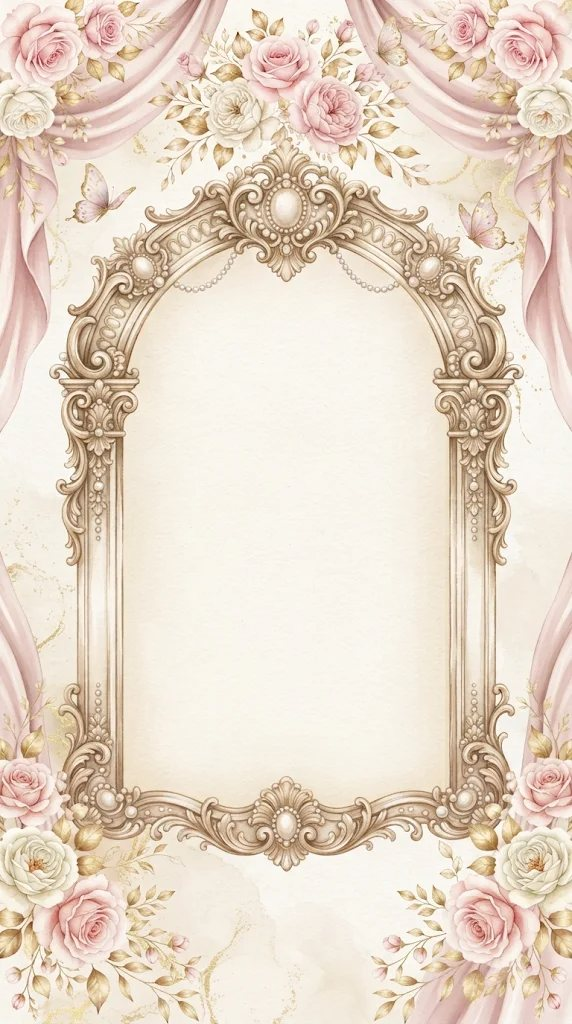
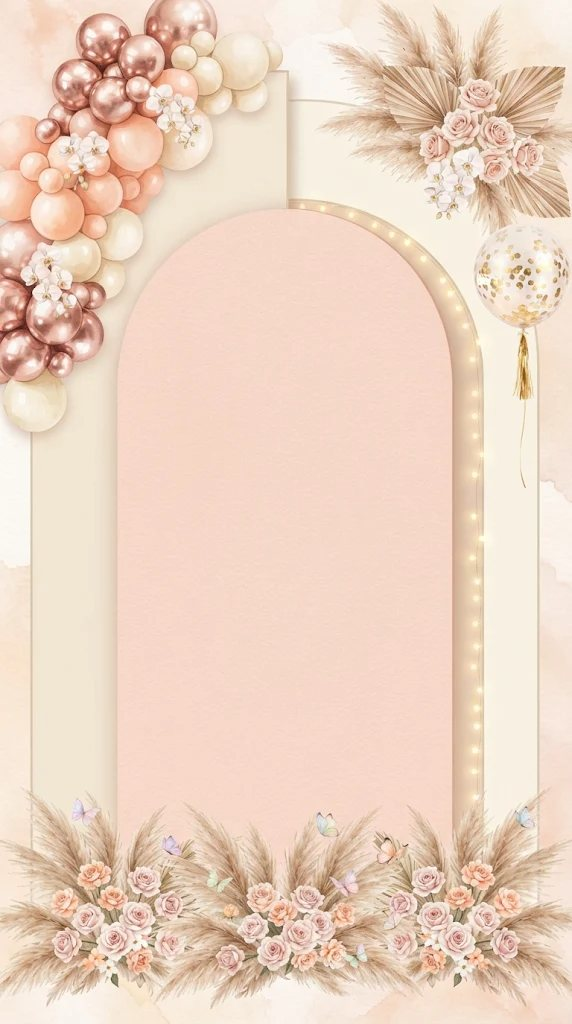
Peach rose-gold art, painted envelope with sliding card, mobile perf

diff --git a/app/royal.css b/app/royal.css
@@ -1004,13 +1004,14 @@ body.locked { scroll-snap-type: none; }
    ART MODE PASS — light blush / rose-gold type that sits INSIDE the painted arch
    ===================================================================== */
 .panel[data-art="1"] {
-  --ink-t: #5b3f45;
-  --ink-dim: rgba(91, 63, 69, 0.86);
-  --rose-t: #c0697f;
-  --gold-ink: #a4752f;
-  --gold-foil-dk: linear-gradient(135deg, #a8704f 0%, #d79a7e 34%, #efc3a8 50%, #c78566 70%, #a8704f 100%);
+  --W: min(100vw, 520px);
+  --ink-t: #5a382e;
+  --ink-dim: rgba(90, 56, 46, 0.86);
+  --rose-t: #9c5242;
+  --gold-ink: #7e4a2a;
+  --gold-foil-dk: linear-gradient(135deg, #8f5640 0%, #c98467 34%, #e6b196 50%, #b3705a 70%, #8f5640 100%);
   /* the arch interior starts ~37% down the painting and is ~58% as wide as the panel */
-  padding: clamp(14rem, 41svh, 26rem) 20% clamp(3.5rem, 9svh, 5.5rem);
+  padding: max(30svh, calc(var(--W) * 0.52)) 22% max(14svh, calc(var(--W) * 0.3));
   align-content: start;
   contain: paint;
 }
@@ -1021,7 +1022,7 @@ body.locked { scroll-snap-type: none; }
   filter: none;
   line-height: 1.1;
   background: none; -webkit-background-clip: border-box; background-clip: border-box;
-  color: #c4825f;
+  color: #a65f48;
   text-shadow: 0 1px 0 rgba(255, 255, 255, 0.85);
 }
 .panel[data-art="1"] .frame .eyebrow { font-size: 0.62rem; letter-spacing: 0.3em; color: var(--rose-t); }
@@ -1030,12 +1031,18 @@ body.locked { scroll-snap-type: none; }
 .panel[data-art="1"] .frame li { text-wrap: balance; }
 
 /* no maroon placeholders / cut-off monogram on painted panels */
-.panel[data-art="1"] .photo--empty,
+.panel#top[data-art="1"] .photo--empty,
 .panel[data-art="1"] .cameo:has(.photo--empty) { display: none; }
+.panel[data-art="1"] .photo__placeholder {
+  background: radial-gradient(circle at 50% 35%, rgba(255, 255, 255, 0.6), rgba(247, 205, 190, 0.6) 70%), #f6d5c6;
+}
+.panel[data-art="1"] .photo__mat { background: linear-gradient(#f6d5c6, #f6d5c6) padding-box, var(--gold-foil) border-box; border-width: 3px; }
+.panel[data-art="1"] .photo__mono { background: var(--gold-foil-dk); -webkit-background-clip: text; background-clip: text; color: transparent; }
+.panel[data-art="1"] .photo__placeholder small { color: var(--rose-t); }
 .panel[data-art="1"] .cameo + .frame { margin-top: 0; }
 
 /* hero */
-.panel#top[data-art="1"] { padding-top: clamp(14rem, 41svh, 26rem); }
+.panel#top[data-art="1"] { padding-top: max(30svh, calc(var(--W) * 0.52)); }
 .panel[data-art="1"] .hero { gap: 0.55rem; }
 .panel[data-art="1"] .hero__arch { width: 100%; }
 .panel[data-art="1"] .hero__arch .photo { aspect-ratio: 3 / 3.4; max-width: 230px; margin: 0 auto 0.4rem; }
@@ -1048,8 +1055,8 @@ body.locked { scroll-snap-type: none; }
 .panel[data-art="1"] .hero__name {
   font-size: clamp(3.6rem, 17vw, 5rem);
   background: none; -webkit-background-clip: border-box; background-clip: border-box;
-  color: #c4825f;
-  text-shadow: 0 1px 0 rgba(255, 255, 255, 0.85), 0 2px 10px rgba(196, 130, 95, 0.25);
+  color: #a65f48;
+  text-shadow: 0 1px 0 rgba(255, 255, 255, 0.6), 0 2px 10px rgba(166, 95, 72, 0.22);
 }
 .panel[data-art="1"] .hero__age { color: var(--gold-ink); font-size: 2rem; }
 .panel[data-art="1"] .hero__at { color: var(--rose-t); }
@@ -1082,7 +1089,7 @@ body.locked { scroll-snap-type: none; }
 
 /* phones: lighter, still pretty */
 @media (max-width: 760px) {
-  .panel[data-art="1"] { padding-inline: 19%; }
+  .panel[data-art="1"] { padding-inline: 21%; }
   .panel[data-art="1"] .panel__bg { scale: 1 !important; transition: none !important; }
   .sparkles, .panel[data-art="1"] .scroll-cue span { display: none; }
   .panel[data-art="1"] .frame { translate: 0 20px; scale: 1; transition: opacity 0.7s ease, translate 0.9s var(--ease); }
@@ -1094,3 +1101,71 @@ body.locked { scroll-snap-type: none; }
 .panel[data-art="1"] .bf { will-change: auto; }
 .panel[data-art="1"] .hero__date { letter-spacing: 0.18em; }
 .panel[data-art="1"] .hero__date i { display: block; font-size: 0; height: 0.35rem; margin: 0; }
+
+/* program: compact so 7 rows fit inside the arch */
+#program[data-art="1"] { padding-top: max(27svh, calc(var(--W) * 0.46)); }
+#program[data-art="1"] .muted { display: none; }
+#program[data-art="1"] .tl { margin-top: 0.7rem; gap: 0.55rem; }
+#program[data-art="1"] .tl__item::before { display: none; }
+#program[data-art="1"] .tl__time { font-size: 0.6rem; }
+#program[data-art="1"] .tl__item h3 { font-size: 1.02rem; }
+#program[data-art="1"] .tl__item p { font-size: 0.76rem; line-height: 1.25; }
+
+/* gallery (not inside a Frame) */
+.panel[data-art="1"] .gal { width: 100%; }
+.panel[data-art="1"] .gal .eyebrow { color: var(--rose-t); font-size: 0.62rem; }
+.panel[data-art="1"] .gal .script-title { color: #a65f48; text-shadow: 0 1px 0 rgba(255, 255, 255, 0.85); font-size: clamp(2.3rem, 1.6rem + 3.4vw, 3.2rem); background: none; -webkit-background-clip: border-box; background-clip: border-box; }
+.panel[data-art="1"] .gal .muted,
+.panel[data-art="1"] .gal__hint { color: var(--ink-dim); }
+
+/* painted cover scene (public/art/cover-scene.jpg) — the card slides out of the envelope */
+.cscene {
+  position: relative;
+  display: block;
+  width: min(80vw, 420px);
+  max-height: 66svh;
+  aspect-ratio: 765 / 1024;
+  padding: 0;
+  border: 0;
+  background: none;
+  cursor: pointer;
+  -webkit-tap-highlight-color: transparent;
+}
+.cs { position: absolute; inset: 0; display: block; }
+.cs__b,
+.cs__a {
+  position: absolute;
+  inset: 0;
+  width: 100%;
+  height: 100%;
+  object-fit: fill;
+  user-select: none;
+  pointer-events: none;
+  -webkit-mask-image: radial-gradient(ellipse 66% 64% at 50% 50%, #000 58%, transparent 100%);
+  mask-image: radial-gradient(ellipse 66% 64% at 50% 50%, #000 58%, transparent 100%);
+}
+/* base: whole picture except the card's top rectangle */
+.cs__b { clip-path: polygon(evenodd, 0 0, 100% 0, 100% 100%, 0 100%, 0 0, 24.4% 11%, 75.8% 11%, 75.8% 35.5%, 24.4% 35.5%, 24.4% 11%); }
+/* paper that is revealed as the card slides up */
+.cs__fill {
+  position: absolute;
+  left: 24.6%; right: 24.4%; top: 12%; height: 25%;
+  background: linear-gradient(180deg, #f8f5ee, #f3eee4);
+}
+/* the card itself */
+.cs__a {
+  clip-path: inset(11% 24.3% 65.5% 24.4%);
+  transition: transform 1.5s cubic-bezier(0.22, 1, 0.36, 1), filter 0.6s;
+  will-change: transform;
+}
+.cover--idle .cscene { animation: floaty 5s ease-in-out infinite; }
+.cover--crack .cs__b { animation: csPop 0.65s var(--ease); }
+@keyframes csPop { 40% { transform: scale(1.025); } }
+.cover--open .cs__a { transform: translateY(-17%); }
+.cover--rise .cs__a { transform: translateY(-21%) scale(1.05); transition-duration: 1.2s; }
+.cover--open .cs__b,
+.cover--rise .cs__b { transform: translateY(2.5%) scale(0.985); transition: transform 1.4s var(--ease); }
+.cover--open .cs__fill,
+.cover--rise .cs__fill { transform: translateY(0); }
+.cscene .cs__fill { transition: opacity 0.4s; }
+.env[hidden] { display: none; }

diff --git a/components/Cover.tsx b/components/Cover.tsx
@@ -4,6 +4,7 @@ import { useEffect, useRef, useState } from "react";
 import { useAudio } from "./AudioProvider";
 import { useFx } from "./FxLayer";
 import { useGuest } from "@/lib/hooks";
+import { useArt } from "./ArtContext";
 import { invitation } from "@/config/invitation";
 import { longDate, startDate } from "@/lib/format";
 
@@ -14,6 +15,7 @@ export default function Cover() {
   const guest = useGuest();
   const audio = useAudio();
   const fx = useFx();
+  const scene = useArt()["cover-scene"];
   const timers = useRef<number[]>([]);
   const sealRef = useRef<HTMLButtonElement>(null);
   const started = useRef(false);
@@ -66,16 +68,16 @@ export default function Cover() {
       setPhase("rise");
       audio.sfx("sparkle");
     });
-    later(3000, () => {
+    later(3350, () => {
       setPhase("zoom");
       audio.sfx("chime");
       root.dataset.phase = "zooming";
     });
-    later(3700, () => {
+    later(3750, () => {
       root.dataset.phase = "live";
       fx.burst(window.innerWidth / 2, window.innerHeight * 0.42, "mix", 1.2);
     });
-    later(4700, finish);
+    later(4900, finish);
   };
 
   if (phase === "done") return null;
@@ -89,7 +91,19 @@ export default function Cover() {
       <div className="scene" onClick={open}>
         <p className="cover__kicker">{invitation.coverText}</p>
 
-        <div className="env">
+        {scene && (
+          <button ref={sealRef} className="cscene" onClick={open} aria-label="Open the invitation">
+            <span className="cs">
+              {/* eslint-disable-next-line @next/next/no-img-element */}
+              <img className="cs__b" src={scene} alt="" decoding="async" fetchPriority="high" draggable={false} />
+              <i className="cs__fill" />
+              {/* eslint-disable-next-line @next/next/no-img-element */}
+              <img className="cs__a" src={scene} alt="" decoding="async" draggable={false} />
+            </span>
+          </button>
+        )}
+
+        <div className="env" hidden={!!scene}>
           <div className="env__back" />
 
           <div className="env__letter">
@@ -118,7 +132,7 @@ export default function Cover() {
             <div className="env__flap-back" />
           </div>
 
-          <button ref={sealRef} className="seal" onClick={open} aria-label="Break the seal to open the invitation">
+          <button ref={scene ? undefined : sealRef} className="seal" onClick={open} aria-label="Break the seal to open the invitation">
             <span className="seal__half seal__half--l">{initial}</span>
             <span className="seal__half seal__half--r">{initial}</span>
           </button>
